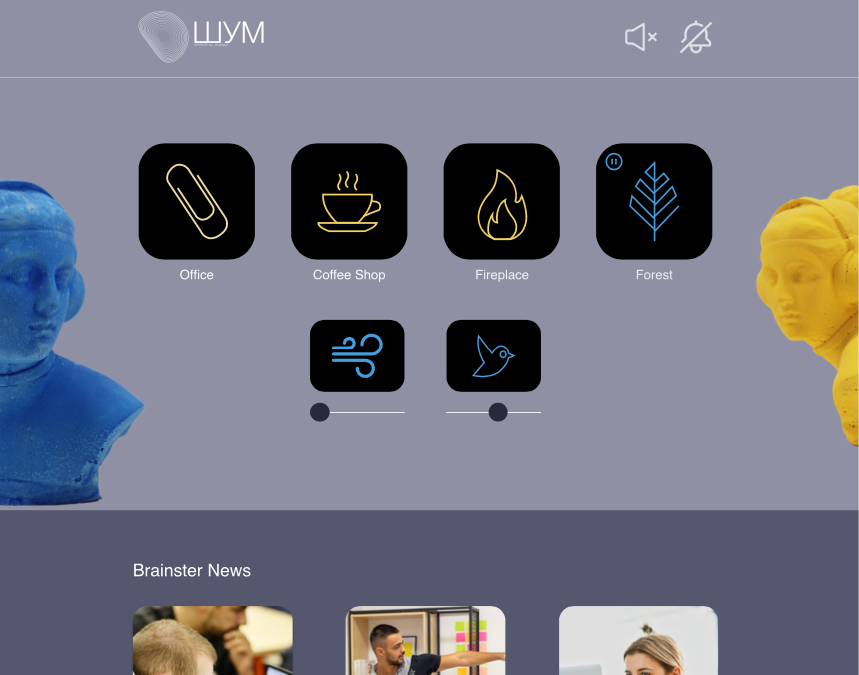
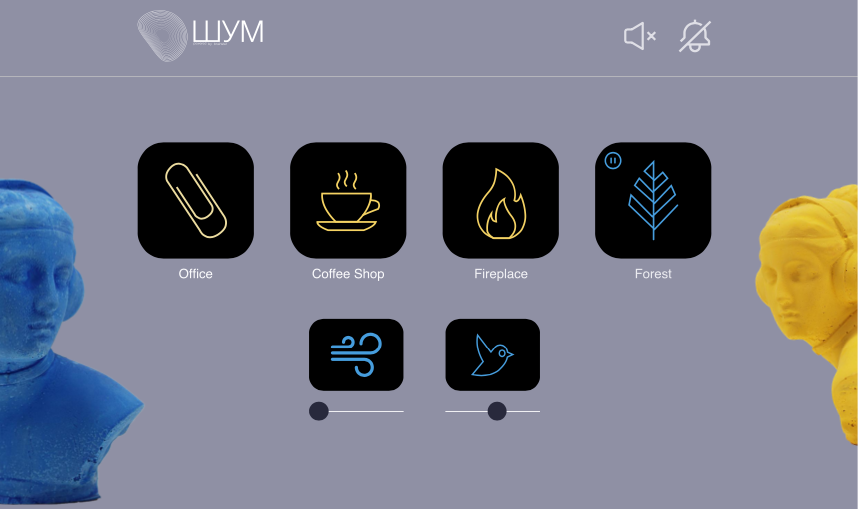
sum2

diff --git a/sum.html b/sum.html
@@ -56,6 +56,80 @@
         </div>
 
    </div>
+
+   <div class="sodrzina">
+       <div class="text">
+           <h3>Team</h3>
+           <label class="team" for="">Sofia Schutarev</label>
+           <label class="team" for="">Martina Dimitrov</label>
+           <label class="team" for="">Aleksandar Vuchkov</label>
+           <label class="team" for="">Jovanche Ilievski</label>
+           
+       </div>
+       <div class="text">
+           <h3>My Role</h3>
+           <label for="">UX\UI Desinger</label>
+       </div>
+       <div class="text">
+           <h3>Client</h3>
+           <label for="">Brainster</label>
+       </div>
+       <div class="text">
+        <h3>Completed</h3>
+        <label for="">12.03.2021</label>
+       </div>
+   </div>
+
+   <div class="challenge">
+       <h1 class="title">Challenge</h1>
+       <p>Во интервјуто со Brainster дојдовме до заклучок дека треба да се направи бесплатна платформа со аудио player, кој ке се состои од било какви позадински шумови. Кој треба да биде со цел да влијае позитивно на продуктивноста на секој оној што ќе ја користи. </p>
+   </div>
+
+   <div class="challenge">
+       <h1 class="title">The Process</h1>
+       <p>За да дојдеме до крајното решение поминавме преку неколку процеси како што се : Research, Competitive analysis, Persona и интервјуа со корисници и стекхолдери. </p>
+   </div>
+
+   <div class="challenge">
+       <h2 class="title">Research</h2>
+       <p>Според Research што го направивме увидовме дека се  спроведени се многу истражувања од научници за поврзаноста на ефектот на аудио врз работата. Според нив, слушањето музика или било каков шум во позадина додека работиме има позитивно влијание врз нашата концентрација и задоволство. Како резултат нашето расположение и работа имаат големо подобрување за разлика од тоа да нема никакво аудио. Исто така се зголемува продуктивноста, креативноста како и задоволството во комуницирање со други луѓе. </p>
+   </div>
+
+   <div class="slika">
+       <img src="img/slika1sum.png" alt="">
+   </div>
+
+   <div class="challenge">
+    <h2 class="title">Competitive analysis</h2>
+    <p>За Competitive analysis земавме три конкуренти и тоа се :</p>
+
+    <div class="competitive">
+        <h3 class="title">Noisli - https://www.noisli.com/</h3>
+        <p>Noisli е web страна на која има голем избор на звуци од кои корисникот може да одбере. Има едноставен минималистичен дизајн со интуитивни икони преку кои употребата на истите е лесна за корисникот. Има опција да се зачува комбото кое корисникот го има одбрано, како и можноста да вклучи тајмер за пофокусирано работење. За повеќе опции на звуци постои upgrade pro со претплата од страна на корисникот. Една од можностите на Noisli е distraction-free text editor, иако е сеуште во beta верзија. Истотака ја има и опцијата за креирање playlists.</p>
+    </div>
+    <div class="competitive">
+        <h3 class="title">myNoise - https://mynoise.net</h3>
+        <p>Оваа web страна нуди голем избор на аудио и музика за секое расположение на корисникот. Има добар систем на player-от и нуди многу опции преку слајдери со кои може да се подесува секој индивидуален звук. Не се наплаќа употребата на оваа страна, но постои можност на patreon, каде што доколку корисникот сака може да прави еднократно плаќање како знак на подршка на креаторот на страната. Од аспект на дизајн, има премногу информации на страната и на прв поглед може да биде тешко снаодлива за корисникот.</p>
+    </div>
+    <div class="competitive">
+        <h3 class="title">Noises - https://noises.online/</h3>
+        <p>Оваа web страна истотака нуди голем избор на звуци кои можат да се комбинираат. Има едноставен и интуитивен дизајн. Корисникот има опција за споделување на линк. Не се наплаќа и нема опција за регистрирање.</p>
+    </div>
+</div>
+
+<div class="challenge">
+    <h2 class="title">Interviews with users</h2>
+    <p>Од сите интервјуа направени со корисници заклучивме дека повеќето слушаат аудио додека работат. Типот на аудиото кое го слушаат зависи од комплексноста на проектот на кој работат и најчесто е без текст. Типови на уреди на кој најчесто слушаат аудио се мобилен и декстоп компјутер. Бидејки работа им е на декстоп компјутер, за слушање на аудио најчесто користат различни веб платформи. Заклучивме дека при работа нотификациите им пречат и им го намалува фокусот. Дизајнот сметаат дека треба да биде минималистички и интуитивен, пожелно во потемни бои. </p>
+</div>
+
+<div class="challenge">
+    <h2 class="title">Persona</h2>
+    <div class="slika">
+        <img src="img/Persona.jpg" alt="">
+    </div>
+</div>
+
+
     
 
     <script src="script.js"></script>

diff --git a/sum.css b/sum.css
@@ -65,10 +65,10 @@ body{
 
 .hero1 .hero2{
     height: 100%;
-    width: 50%;
+    width: 70%;
     display: flex;
     align-items: center;
-    justify-content: center;
+    justify-content: flex-end;
     flex-direction: column
 }
 
@@ -81,6 +81,51 @@ body{
 
 .hero1 .hero2 .image .img1{
     width: 100%;
+}
+
+.sodrzina  {
+    text-align: center;
+}
+
+.sodrzina .text {
+    margin: 20px;
+}
+
+.sodrzina .text .team {
+    padding: 0px 20px;
+}
+
+.sodrzina h3{
+    margin: 0px 0px;
+}
+
+.challenge {
+    text-align: center;
+    margin-top: 60px;
+}
+
+.challenge h1 , 
+.challenge h2 {
+    margin: 10px 0px;
+}
+
+p {
+    text-align: center;
+    max-width: 900px;
+    margin: 0px auto ;
+    padding: 0px 30px;  
+}
+
+.slika img {
+    text-align: center;
+    width: 80%;
+}
+.slika{
+    margin-top: 40px;
+    width: 100%;
+    display: flex;
+    align-items: center;
+    justify-content: center;
 }
 
 
@@ -143,4 +188,12 @@ body{
     }
 
     
-  }
+}
+
+@media screen and (max-width: 700px){
+
+    .hero1 .hero2{
+        justify-content: space-evenly;
+    }
+
+}
